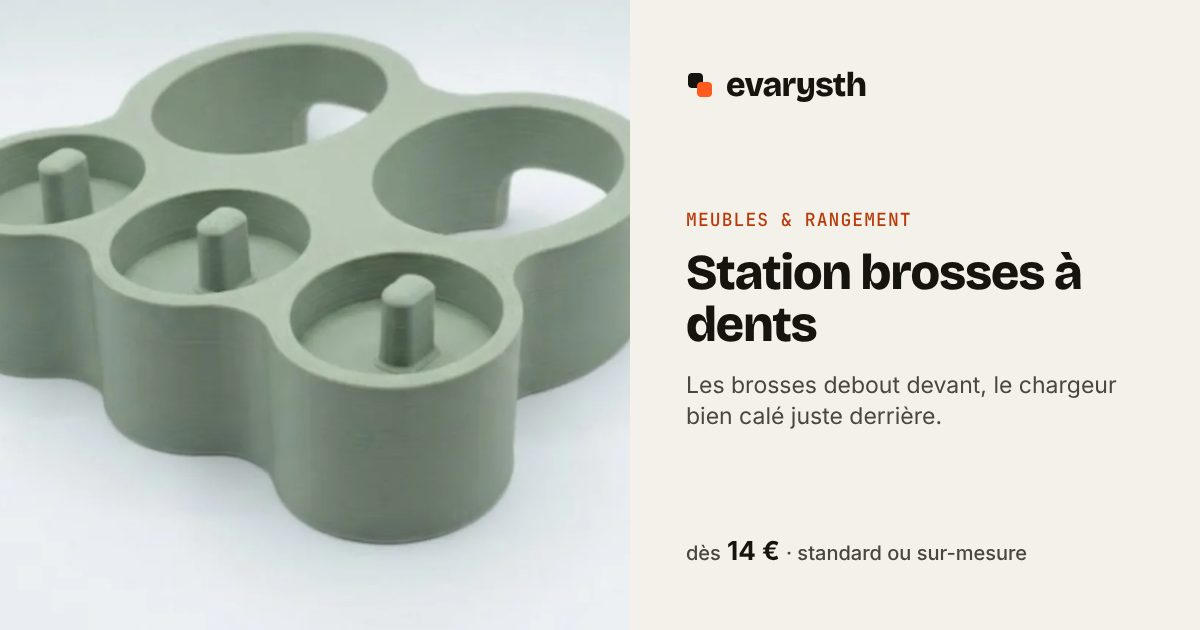
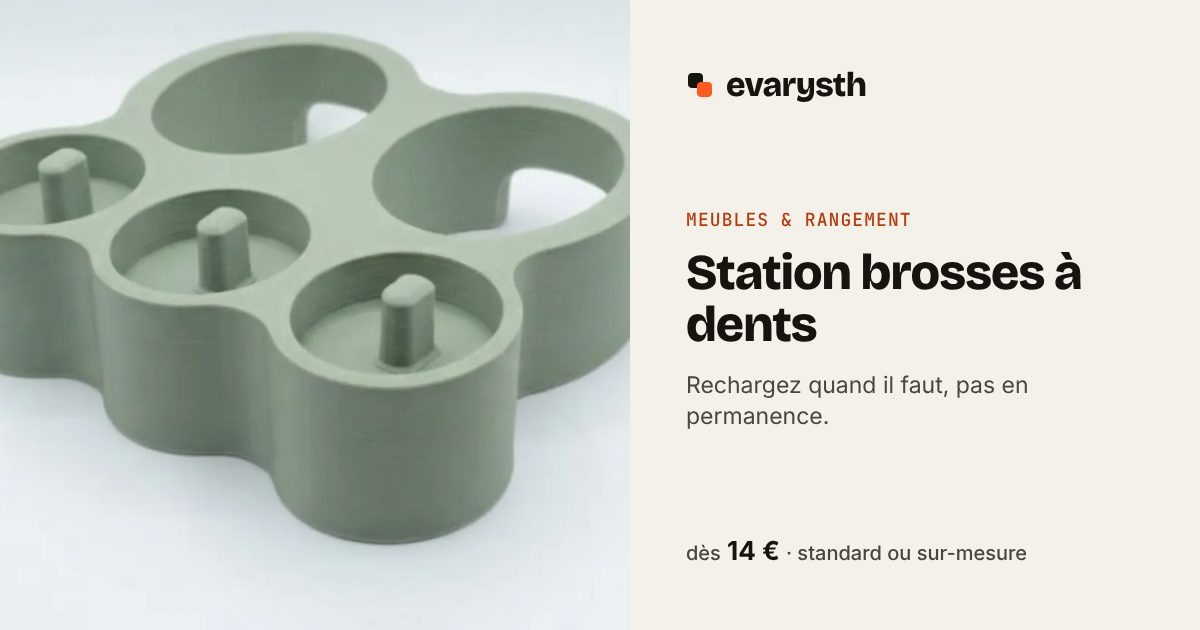
Station brosses à dents : description courte, compatibilité iO2 à iO6 (#158)
Claude-Session: https://claude.ai/code/session_013t5AitiiN32HEYSz4SrLrU

Changed region(s): [[0.555, 0.6032, 0.925, 0.6937]]

diff --git a/produits/station-brosses-dents/index.html b/produits/station-brosses-dents/index.html
@@ -11,13 +11,13 @@
   <link rel="apple-touch-icon" href="/assets/icons/apple-touch-icon.png">
   <meta name="theme-color" content="#F4F1EA">
   <title>Evarysth</title>
-  <meta name="description" content="Les brosses debout devant, le chargeur bien calé juste derrière. Dès 14 €, en taille standard ou à vos cotes.">
+  <meta name="description" content="Rechargez quand il faut, pas en permanence. Dès 14 €, en taille standard ou à vos cotes.">
   <link rel="canonical" href="https://evarysth.fr/produits/station-brosses-dents/">
   <meta property="og:type" content="product">
   <meta property="og:site_name" content="Evarysth">
   <meta property="og:locale" content="fr_FR">
   <meta property="og:title" content="Station brosses à dents — Evarysth">
-  <meta property="og:description" content="Les brosses debout devant, le chargeur bien calé juste derrière. Dès 14 €, sur-mesure possible.">
+  <meta property="og:description" content="Rechargez quand il faut, pas en permanence. Dès 14 €, sur-mesure possible.">
   <meta property="og:url" content="https://evarysth.fr/produits/station-brosses-dents/">
   <meta property="og:image" content="https://evarysth.fr/assets/og/station-brosses-dents.jpg">
   <meta property="og:image:width" content="1200">
@@ -26,7 +26,7 @@
   <meta property="product:price:amount" content="14.00">
   <meta property="product:price:currency" content="EUR">
   <meta name="twitter:card" content="summary_large_image">
-  <script type="application/ld+json">[{"@context":"https://schema.org","@type":"Product","name":"Station brosses à dents","description":"Les brosses debout devant, le chargeur bien calé juste derrière. Un socle à poser près du lavabo, compatible chargeurs Oral-B ronds (type 3757, gammes Pro et Vitality ; pas les chargeurs iO). À l'avant, une cuvette et un picot gardent debout chaque brosse, à portée de main. À l'arrière, chaque chargeur s'emboîte dans son logement, posé sur le plan de travail, et son câble sort par une encoche à l'arrière : la station reste bien à plat. Pour recharger une brosse, posez-la derrière. Choisissez le nombre de chargeurs et de supports de pose. Produit indépendant, non affilié à Oral-B ; chargeurs et brosses non fournis.","sku":"station-brosses-dents","category":"Meubles & Rangement","image":["https://evarysth.fr/assets/og/station-brosses-dents.jpg","https://evarysth.fr/assets/photos/station-brosses-dents/1.webp","https://evarysth.fr/assets/photos/station-brosses-dents/2.webp","https://evarysth.fr/assets/photos/station-brosses-dents/3.webp"],"brand":{"@type":"Brand","name":"Evarysth"},"offers":{"@type":"AggregateOffer","url":"https://evarysth.fr/produits/station-brosses-dents/","priceCurrency":"EUR","offerCount":3,"lowPrice":"14.00","highPrice":"20.00"}},{"@context":"https://schema.org","@type":"BreadcrumbList","itemListElement":[{"@type":"ListItem","position":1,"name":"Catalogue","item":"https://evarysth.fr/catalogue/"},{"@type":"ListItem","position":2,"name":"Meubles & Rangement","item":"https://evarysth.fr/univers/meubles/"},{"@type":"ListItem","position":3,"name":"Station brosses à dents","item":"https://evarysth.fr/produits/station-brosses-dents/"}]}]</script>
+  <script type="application/ld+json">[{"@context":"https://schema.org","@type":"Product","name":"Station brosses à dents","description":"Rechargez quand il faut, pas en permanence. Une brosse qui reste toujours sur son chargeur fatigue sa batterie. Ici, elle attend debout sur son support et ne passe sur le chargeur que pour recharger. Pour le chargeur rond Oral-B type 3757 (Pro, Vitality, iO2 à iO6) ; pas le socle magnétique des iO7 à iO9. Produit non affilié à Oral-B.","sku":"station-brosses-dents","category":"Meubles & Rangement","image":["https://evarysth.fr/assets/og/station-brosses-dents.jpg","https://evarysth.fr/assets/photos/station-brosses-dents/1.webp","https://evarysth.fr/assets/photos/station-brosses-dents/2.webp","https://evarysth.fr/assets/photos/station-brosses-dents/3.webp"],"brand":{"@type":"Brand","name":"Evarysth"},"offers":{"@type":"AggregateOffer","url":"https://evarysth.fr/produits/station-brosses-dents/","priceCurrency":"EUR","offerCount":3,"lowPrice":"14.00","highPrice":"20.00"}},{"@context":"https://schema.org","@type":"BreadcrumbList","itemListElement":[{"@type":"ListItem","position":1,"name":"Catalogue","item":"https://evarysth.fr/catalogue/"},{"@type":"ListItem","position":2,"name":"Meubles & Rangement","item":"https://evarysth.fr/univers/meubles/"},{"@type":"ListItem","position":3,"name":"Station brosses à dents","item":"https://evarysth.fr/produits/station-brosses-dents/"}]}]</script>
   <link rel="preconnect" href="https://fonts.googleapis.com">
   <link rel="preconnect" href="https://fonts.gstatic.com" crossorigin>
   <link href="https://fonts.googleapis.com/css2?family=Bricolage+Grotesque:opsz,wght@12..96,600;12..96,700;12..96,800&family=Inter:wght@400;500;600;700&family=JetBrains+Mono:wght@400;500&display=swap" rel="stylesheet">
@@ -86,8 +86,8 @@
     <nav class="crumbs" aria-label="Fil d'Ariane"><a href="catalogue/">Catalogue</a> / <a href="univers/meubles/">Meubles &amp; Rangement</a> / <span>Station brosses à dents</span></nav>
     <article class="pdp-static">
       <h1>Station brosses à dents</h1>
-      <p>Les brosses debout devant, le chargeur bien calé juste derrière.</p>
-      <p>Un socle à poser près du lavabo, compatible chargeurs Oral-B ronds (type 3757, gammes Pro et Vitality ; pas les chargeurs iO). À l'avant, une cuvette et un picot gardent debout chaque brosse, à portée de main. À l'arrière, chaque chargeur s'emboîte dans son logement, posé sur le plan de travail, et son câble sort par une encoche à l'arrière : la station reste bien à plat. Pour recharger une brosse, posez-la derrière. Choisissez le nombre de chargeurs et de supports de pose. Produit indépendant, non affilié à Oral-B ; chargeurs et brosses non fournis.</p>
+      <p>Rechargez quand il faut, pas en permanence.</p>
+      <p>Une brosse qui reste toujours sur son chargeur fatigue sa batterie. Ici, elle attend debout sur son support et ne passe sur le chargeur que pour recharger. Pour le chargeur rond Oral-B type 3757 (Pro, Vitality, iO2 à iO6) ; pas le socle magnétique des iO7 à iO9. Produit non affilié à Oral-B.</p>
       <p>Dès 14 €. En taille standard (configuration : Solo 1 chargeur, 1 support, Duo 2 chargeurs, 2 supports, Famille 2 chargeurs, 4 supports), ou sur-mesure à vos cotes.</p>
       <img src="assets/photos/station-brosses-dents/1.webp" alt="Station en vert sauge : deux logements de chargeur à l'arrière, trois supports de pose avec leur picot à l'avant" width="800" loading="lazy">
       <noscript><p>Activez JavaScript pour voir la pièce en 3D, régler vos cotes et commander.</p></noscript>

diff --git a/catalogue/index.html b/catalogue/index.html
@@ -88,7 +88,7 @@
     <div id="catalogue-root">
      <section class="row-block"><h2><a href="univers/balcon/">Balcon &amp; Extérieur</a></h2><p>Tout se clipse sur votre garde-corps. Zéro trou, zéro souci avec le propriétaire.</p><ul class="list-static"><li><a href="produits/crochet-balcon/">Crochet de balcon</a> — Pour suspendre lanterne, plante ou serviette. <span>Dès 13 €</span></li><li><a href="produits/tablette-rambarde/">Tablette café de balcon</a> — Une petite table pour le café, posée sur la rambarde. <span>Dès 23 €</span></li></ul></section>
      <section class="row-block"><h2><a href="univers/bureau/">Bureau, Tech &amp; Auto</a></h2><p>Câbles, casques, affaires de voiture : chaque chose à sa place, à portée de main.</p><ul class="list-static"><li><a href="produits/passe-cable/">Passe-câble de bureau</a> — Un trou propre pour faire passer les câbles. <span>Dès 12 €</span></li><li><a href="produits/crochet-appui-tete/">Crochet d'appui-tête multifonction</a> — La tablette, le sac et la gourde rangés derrière le siège avant. <span>Dès 17 €</span></li><li><a href="produits/crochet-appui-tete-double/">Crochet d'appui-tête à deux tiges</a> — Se pose sur les deux tiges, sans sortir l'appui-tête. <span>Dès 17 €</span></li><li><a href="produits/support-casque-treillis/">Support casque Treillis</a> — Un vrai présentoir pour votre casque, léger comme une dentelle. <span>Dès 42 €</span></li></ul></section>
-     <section class="row-block"><h2><a href="univers/meubles/">Meubles &amp; Rangement</a></h2><p>Les petites pièces qui manquaient à vos meubles du commerce.</p><ul class="list-static"><li><a href="produits/boite-rugged/">Boîte robuste à loquets</a> — Une boîte qui encaisse les chocs, aux dimensions de ce que vous rangez. <span>Dès 21 €</span></li><li><a href="produits/organiseur-tiroir/">Organiseur de tiroir</a> — Un casier qui épouse exactement votre tiroir. <span>Dès 26 €</span></li><li><a href="produits/vide-poche-cles/">Vide-poche porte-clés</a> — Les clés accrochées, la monnaie dans le bac, dès l'entrée. <span>Dès 15 €</span></li><li><a href="produits/distributeur-cotons/">Distributeur cotons &amp; cotons-tiges</a> — Les disques à portée de main, les cotons-tiges juste à côté. <span>Dès 19 €</span></li><li><a href="produits/station-brosses-dents/">Station brosses à dents</a> — Les brosses debout devant, le chargeur bien calé juste derrière. <span>Dès 14 €</span></li><li><a href="produits/distributeur-oeufs-boucle/">Distributeur d'œufs en boucle</a> — La forme d'origine, avec ses berceaux galbés. <span>Dès 27 €</span></li><li><a href="produits/cintre-sac/">Cintre à sac pour tringle</a> — Le sac à dos rangé dans la penderie, comme une veste. <span>Dès 14 €</span></li><li><a href="produits/pince-sac-verseur/">Pince à sac avec bec verseur</a> — Le paquet de café refermé, et un bec pour verser sans en mettre partout. <span>Dès 15 €</span></li><li><a href="produits/support-aerosol-skadis/">Support de bombe pour SKADIS</a> — La bombe aérosol rangée debout sur le panneau perforé, toujours à portée de main. <span>Dès 15 €</span></li><li><a href="produits/support-accessoires-aspirateur/">Support mural d'accessoires d'aspirateur</a> — Les embouts de l'aspirateur balai rangés au mur, prêts à être clipsés. <span>Dès 19 €</span></li></ul></section>
+     <section class="row-block"><h2><a href="univers/meubles/">Meubles &amp; Rangement</a></h2><p>Les petites pièces qui manquaient à vos meubles du commerce.</p><ul class="list-static"><li><a href="produits/boite-rugged/">Boîte robuste à loquets</a> — Une boîte qui encaisse les chocs, aux dimensions de ce que vous rangez. <span>Dès 21 €</span></li><li><a href="produits/organiseur-tiroir/">Organiseur de tiroir</a> — Un casier qui épouse exactement votre tiroir. <span>Dès 26 €</span></li><li><a href="produits/vide-poche-cles/">Vide-poche porte-clés</a> — Les clés accrochées, la monnaie dans le bac, dès l'entrée. <span>Dès 15 €</span></li><li><a href="produits/distributeur-cotons/">Distributeur cotons &amp; cotons-tiges</a> — Les disques à portée de main, les cotons-tiges juste à côté. <span>Dès 19 €</span></li><li><a href="produits/station-brosses-dents/">Station brosses à dents</a> — Rechargez quand il faut, pas en permanence. <span>Dès 14 €</span></li><li><a href="produits/distributeur-oeufs-boucle/">Distributeur d'œufs en boucle</a> — La forme d'origine, avec ses berceaux galbés. <span>Dès 27 €</span></li><li><a href="produits/cintre-sac/">Cintre à sac pour tringle</a> — Le sac à dos rangé dans la penderie, comme une veste. <span>Dès 14 €</span></li><li><a href="produits/pince-sac-verseur/">Pince à sac avec bec verseur</a> — Le paquet de café refermé, et un bec pour verser sans en mettre partout. <span>Dès 15 €</span></li><li><a href="produits/support-aerosol-skadis/">Support de bombe pour SKADIS</a> — La bombe aérosol rangée debout sur le panneau perforé, toujours à portée de main. <span>Dès 15 €</span></li><li><a href="produits/support-accessoires-aspirateur/">Support mural d'accessoires d'aspirateur</a> — Les embouts de l'aspirateur balai rangés au mur, prêts à être clipsés. <span>Dès 19 €</span></li></ul></section>
      <section class="row-block"><h2><a href="univers/deco/">Déco &amp; Objets</a></h2><p>Des pièces à exposer, imprimées à la taille de votre étagère.</p><ul class="list-static"><li><a href="produits/chat-lord/">Chat Lord</a> — Un buste de chat couronné de lauriers, drapé à l'antique. <span>Dès 16 €</span></li><li><a href="produits/duo-plage/">Duo de plage</a> — Deux silhouettes main dans la main, prêtes pour la mise à l'eau. <span>Dès 20 €</span></li><li><a href="produits/carapuce/">Carapuce</a> — La petite tortue la plus effrontée de l'étagère. <span>Dès 15 €</span></li><li><a href="produits/voiture-voronoi/">Voiture Voronoï</a> — Une sportive à aileron, toute en dentelle de plastique. <span>Dès 16 €</span></li></ul></section>
     </div>
    </div>

diff --git a/univers/meubles/index.html b/univers/meubles/index.html
@@ -86,7 +86,7 @@
       <h1>Meubles &amp; Rangement <em>malins</em></h1>
       <p>Les petites pièces qui manquaient à vos meubles du commerce.</p>
     </header>
-    <ul class="list-static"><li><a href="produits/boite-rugged/">Boîte robuste à loquets</a> — Une boîte qui encaisse les chocs, aux dimensions de ce que vous rangez. <span>Dès 21 €</span></li><li><a href="produits/organiseur-tiroir/">Organiseur de tiroir</a> — Un casier qui épouse exactement votre tiroir. <span>Dès 26 €</span></li><li><a href="produits/vide-poche-cles/">Vide-poche porte-clés</a> — Les clés accrochées, la monnaie dans le bac, dès l'entrée. <span>Dès 15 €</span></li><li><a href="produits/distributeur-cotons/">Distributeur cotons &amp; cotons-tiges</a> — Les disques à portée de main, les cotons-tiges juste à côté. <span>Dès 19 €</span></li><li><a href="produits/station-brosses-dents/">Station brosses à dents</a> — Les brosses debout devant, le chargeur bien calé juste derrière. <span>Dès 14 €</span></li><li><a href="produits/distributeur-oeufs-boucle/">Distributeur d'œufs en boucle</a> — La forme d'origine, avec ses berceaux galbés. <span>Dès 27 €</span></li><li><a href="produits/cintre-sac/">Cintre à sac pour tringle</a> — Le sac à dos rangé dans la penderie, comme une veste. <span>Dès 14 €</span></li><li><a href="produits/pince-sac-verseur/">Pince à sac avec bec verseur</a> — Le paquet de café refermé, et un bec pour verser sans en mettre partout. <span>Dès 15 €</span></li><li><a href="produits/support-aerosol-skadis/">Support de bombe pour SKADIS</a> — La bombe aérosol rangée debout sur le panneau perforé, toujours à portée de main. <span>Dès 15 €</span></li><li><a href="produits/support-accessoires-aspirateur/">Support mural d'accessoires d'aspirateur</a> — Les embouts de l'aspirateur balai rangés au mur, prêts à être clipsés. <span>Dès 19 €</span></li></ul>
+    <ul class="list-static"><li><a href="produits/boite-rugged/">Boîte robuste à loquets</a> — Une boîte qui encaisse les chocs, aux dimensions de ce que vous rangez. <span>Dès 21 €</span></li><li><a href="produits/organiseur-tiroir/">Organiseur de tiroir</a> — Un casier qui épouse exactement votre tiroir. <span>Dès 26 €</span></li><li><a href="produits/vide-poche-cles/">Vide-poche porte-clés</a> — Les clés accrochées, la monnaie dans le bac, dès l'entrée. <span>Dès 15 €</span></li><li><a href="produits/distributeur-cotons/">Distributeur cotons &amp; cotons-tiges</a> — Les disques à portée de main, les cotons-tiges juste à côté. <span>Dès 19 €</span></li><li><a href="produits/station-brosses-dents/">Station brosses à dents</a> — Rechargez quand il faut, pas en permanence. <span>Dès 14 €</span></li><li><a href="produits/distributeur-oeufs-boucle/">Distributeur d'œufs en boucle</a> — La forme d'origine, avec ses berceaux galbés. <span>Dès 27 €</span></li><li><a href="produits/cintre-sac/">Cintre à sac pour tringle</a> — Le sac à dos rangé dans la penderie, comme une veste. <span>Dès 14 €</span></li><li><a href="produits/pince-sac-verseur/">Pince à sac avec bec verseur</a> — Le paquet de café refermé, et un bec pour verser sans en mettre partout. <span>Dès 15 €</span></li><li><a href="produits/support-aerosol-skadis/">Support de bombe pour SKADIS</a> — La bombe aérosol rangée debout sur le panneau perforé, toujours à portée de main. <span>Dès 15 €</span></li><li><a href="produits/support-accessoires-aspirateur/">Support mural d'accessoires d'aspirateur</a> — Les embouts de l'aspirateur balai rangés au mur, prêts à être clipsés. <span>Dès 19 €</span></li></ul>
    </div>
   </main>
   <section class="reassure">

diff --git a/assets/js/data.js b/assets/js/data.js
@@ -301,8 +301,8 @@ EVARYSTH.products = [
   {
     id: "station-brosses-dents", universe: "meubles", matiere: "petg", shape: "toothbrush", model: "station-brosses-dents",
     name: "Station brosses à dents",
-    tagline: "Les brosses debout devant, le chargeur bien calé juste derrière.",
-    desc: "Un socle à poser près du lavabo, compatible chargeurs Oral-B ronds (type 3757, gammes Pro et Vitality ; pas les chargeurs iO). À l'avant, une cuvette et un picot gardent debout chaque brosse, à portée de main. À l'arrière, chaque chargeur s'emboîte dans son logement, posé sur le plan de travail, et son câble sort par une encoche à l'arrière : la station reste bien à plat. Pour recharger une brosse, posez-la derrière. Choisissez le nombre de chargeurs et de supports de pose. Produit indépendant, non affilié à Oral-B ; chargeurs et brosses non fournis.",
+    tagline: "Rechargez quand il faut, pas en permanence.",
+    desc: "Une brosse qui reste toujours sur son chargeur fatigue sa batterie. Ici, elle attend debout sur son support et ne passe sur le chargeur que pour recharger. Pour le chargeur rond Oral-B type 3757 (Pro, Vitality, iO2 à iO6) ; pas le socle magnétique des iO7 à iO9. Produit non affilié à Oral-B.",
     variants: sizes("Configuration", [["Solo", "1 chargeur, 1 support", { a: 1, b: 1 }], ["Duo", "2 chargeurs, 2 supports", { a: 2, b: 2 }], ["Famille", "2 chargeurs, 4 supports", { a: 2, b: 4 }]]),
     colors: [
       { id: "noir", label: "Noir mat", hex: "#2a2a2a" },
@@ -319,8 +319,7 @@ EVARYSTH.products = [
       { src: "assets/photos/station-brosses-dents/1.webp", alt: "Station en vert sauge : deux logements de chargeur à l'arrière, trois supports de pose avec leur picot à l'avant" },
       { src: "assets/photos/station-brosses-dents/2.webp", alt: "Station en rose poudré, deux chargeurs et quatre supports de pose, vue de trois quarts" },
       { src: "assets/photos/station-brosses-dents/3.webp", alt: "Station Solo en noir mat : un support de pose devant, un logement de chargeur derrière avec sa sortie de câble" }
-    ],
-    photosNote: "Photos : prototypes imprimés ; chargeurs et brosses non fournis"
+    ]
   },
   {
     id: "distributeur-oeufs-boucle", universe: "meubles", matiere: "petg", shape: "eggs", model: "distributeur-oeufs-boucle",
